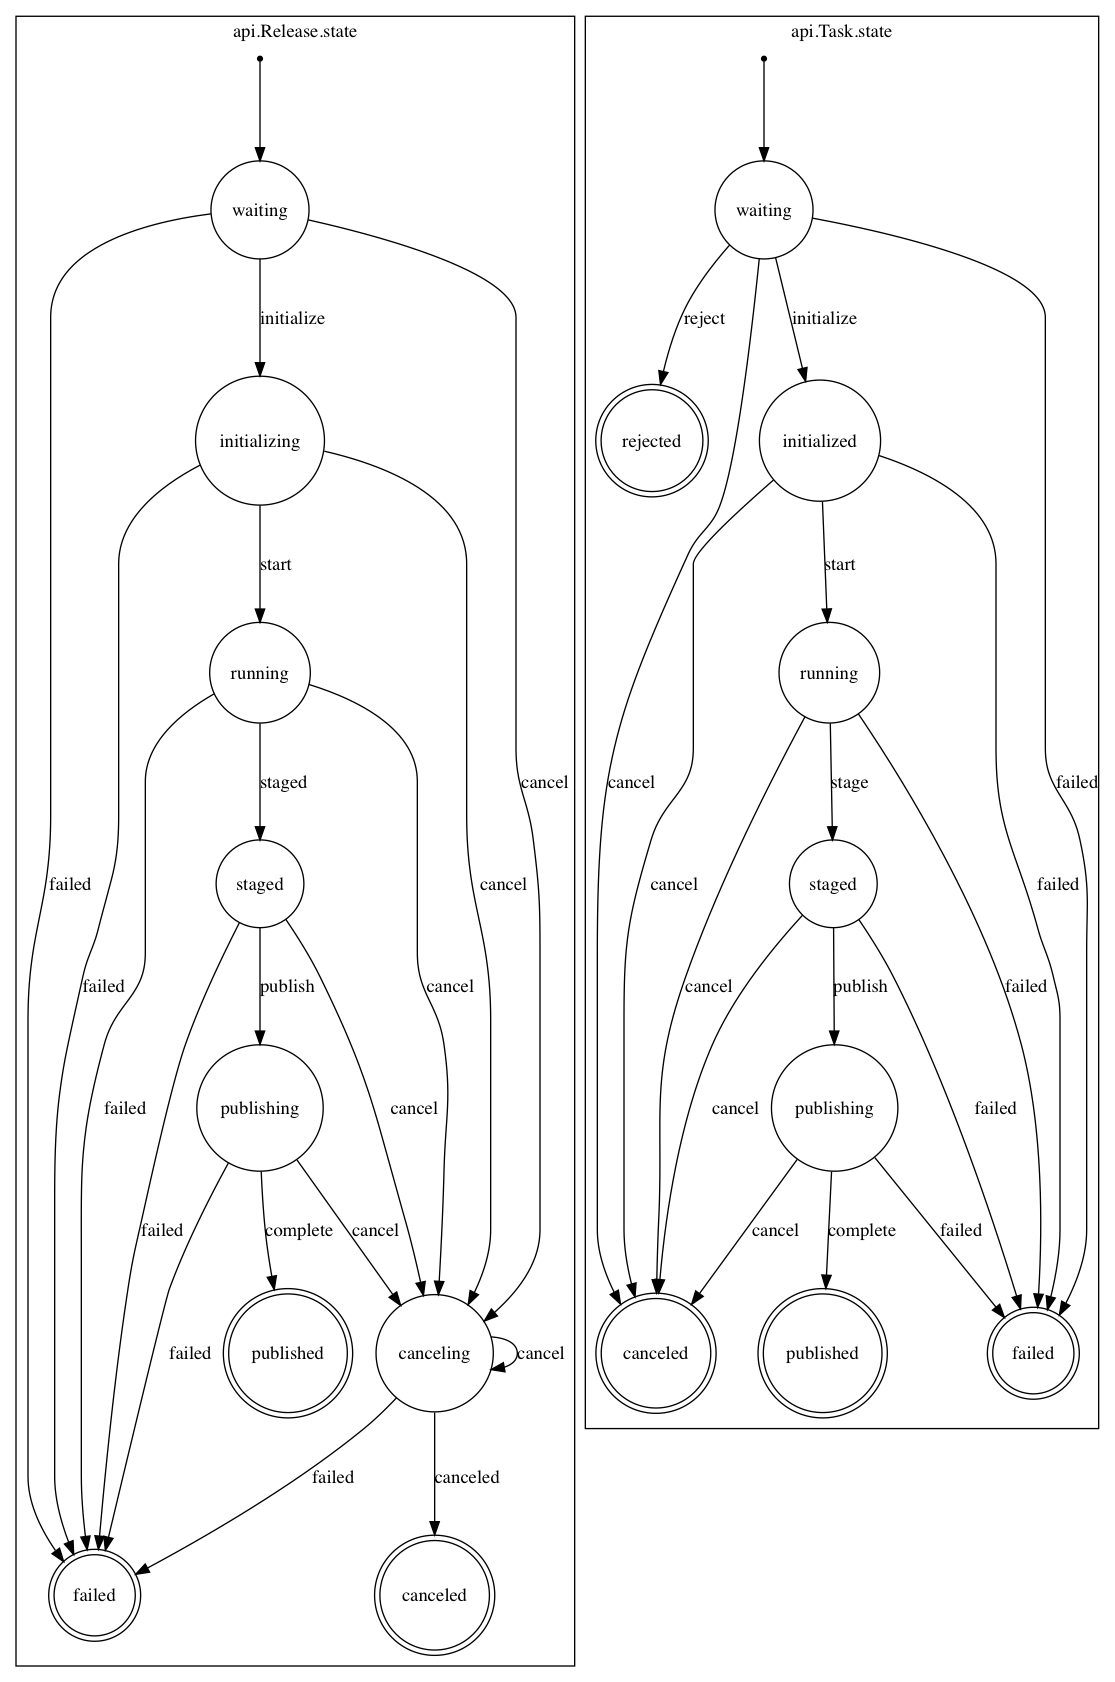
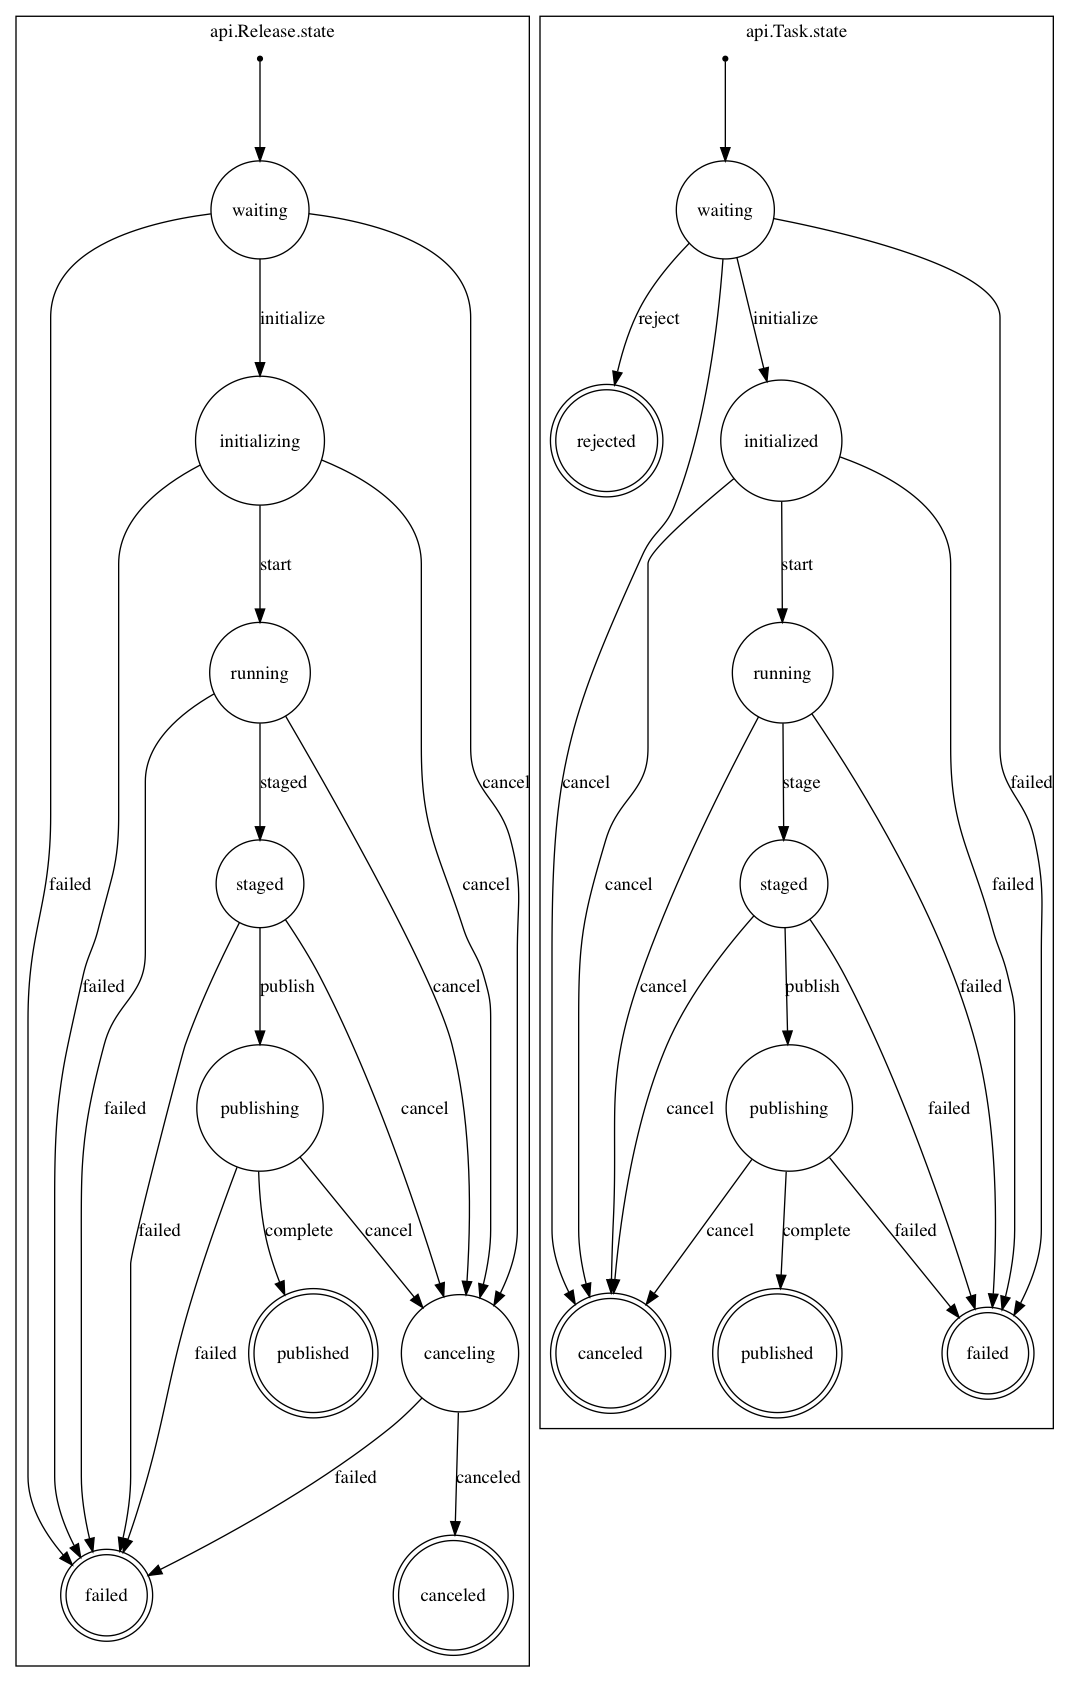
:bug: Don't allow release in canceling to be canceled again

diff --git a/coordinator/api/models.py b/coordinator/api/models.py
@@ -29,6 +29,10 @@ STATUSES = [
     ('red', 'red')
 ]
 
+# Allowed source statse for release cancels and fails
+CANCEL_SOURCES = ['waiting', 'initializing', 'running', 'staged', 'publishing']
+FAIL_SOURCES = CANCEL_SOURCES+['canceling']
+
 
 def task_id():
     return kf_id_generator('TA')()
@@ -162,7 +166,7 @@ class Release(models.Model):
         """ Complete publishing """
         return
 
-    @transition(field=state, source='*', target='canceling')
+    @transition(field=state, source=CANCEL_SOURCES, target='canceling')
     def cancel(self):
         """ Cancel the release """
         return
@@ -172,7 +176,7 @@ class Release(models.Model):
         """ The release has finished canceling """
         return
 
-    @transition(field=state, source='*', target='failed')
+    @transition(field=state, source=FAIL_SOURCES, target='failed')
     def failed(self):
         """ The release failed """
         return

diff --git a/coordinator/api/views/release.py b/coordinator/api/views/release.py
@@ -1,4 +1,5 @@
 import django_rq
+import django_fsm
 from django.core.exceptions import ObjectDoesNotExist
 from rest_framework import viewsets
 from rest_framework.mixins import UpdateModelMixin
@@ -55,8 +56,13 @@ class ReleaseViewSet(viewsets.ModelViewSet, UpdateModelMixin):
         except ObjectDoesNotExist:
             return Response({}, status=404)
 
-        release.cancel()
-        release.save()
+        try:
+            release.cancel()
+            release.save()
+        except django_fsm.TransitionNotAllowed:
+            # Release must already be canceled or is canceling
+            pass
+
         # Do other cancel logic here
         return self.retrieve(request, kf_id)
 

diff --git a/tests/test_releases.py b/tests/test_releases.py
@@ -1,6 +1,6 @@
 import json
 import pytest
-from coordinator.api.models import Release
+from coordinator.api.models import Release, Event
 
 
 def test_no_releases(client, transactional_db):
@@ -78,6 +78,11 @@ def test_cancel_release(admin_client, transactional_db, release):
     resp = admin_client.get('http://testserver/releases/'+kf_id)
     res = resp.json()
     assert res['state'] == 'canceling'
+
+    # Make sure that we don't re-cancel the release
+    assert Event.objects.count() == 1
+    resp = admin_client.delete('http://testserver/releases/'+kf_id)
+    assert Event.objects.count() == 1
 
 
 def test_cancel_release_404(admin_client, transactional_db, release):
